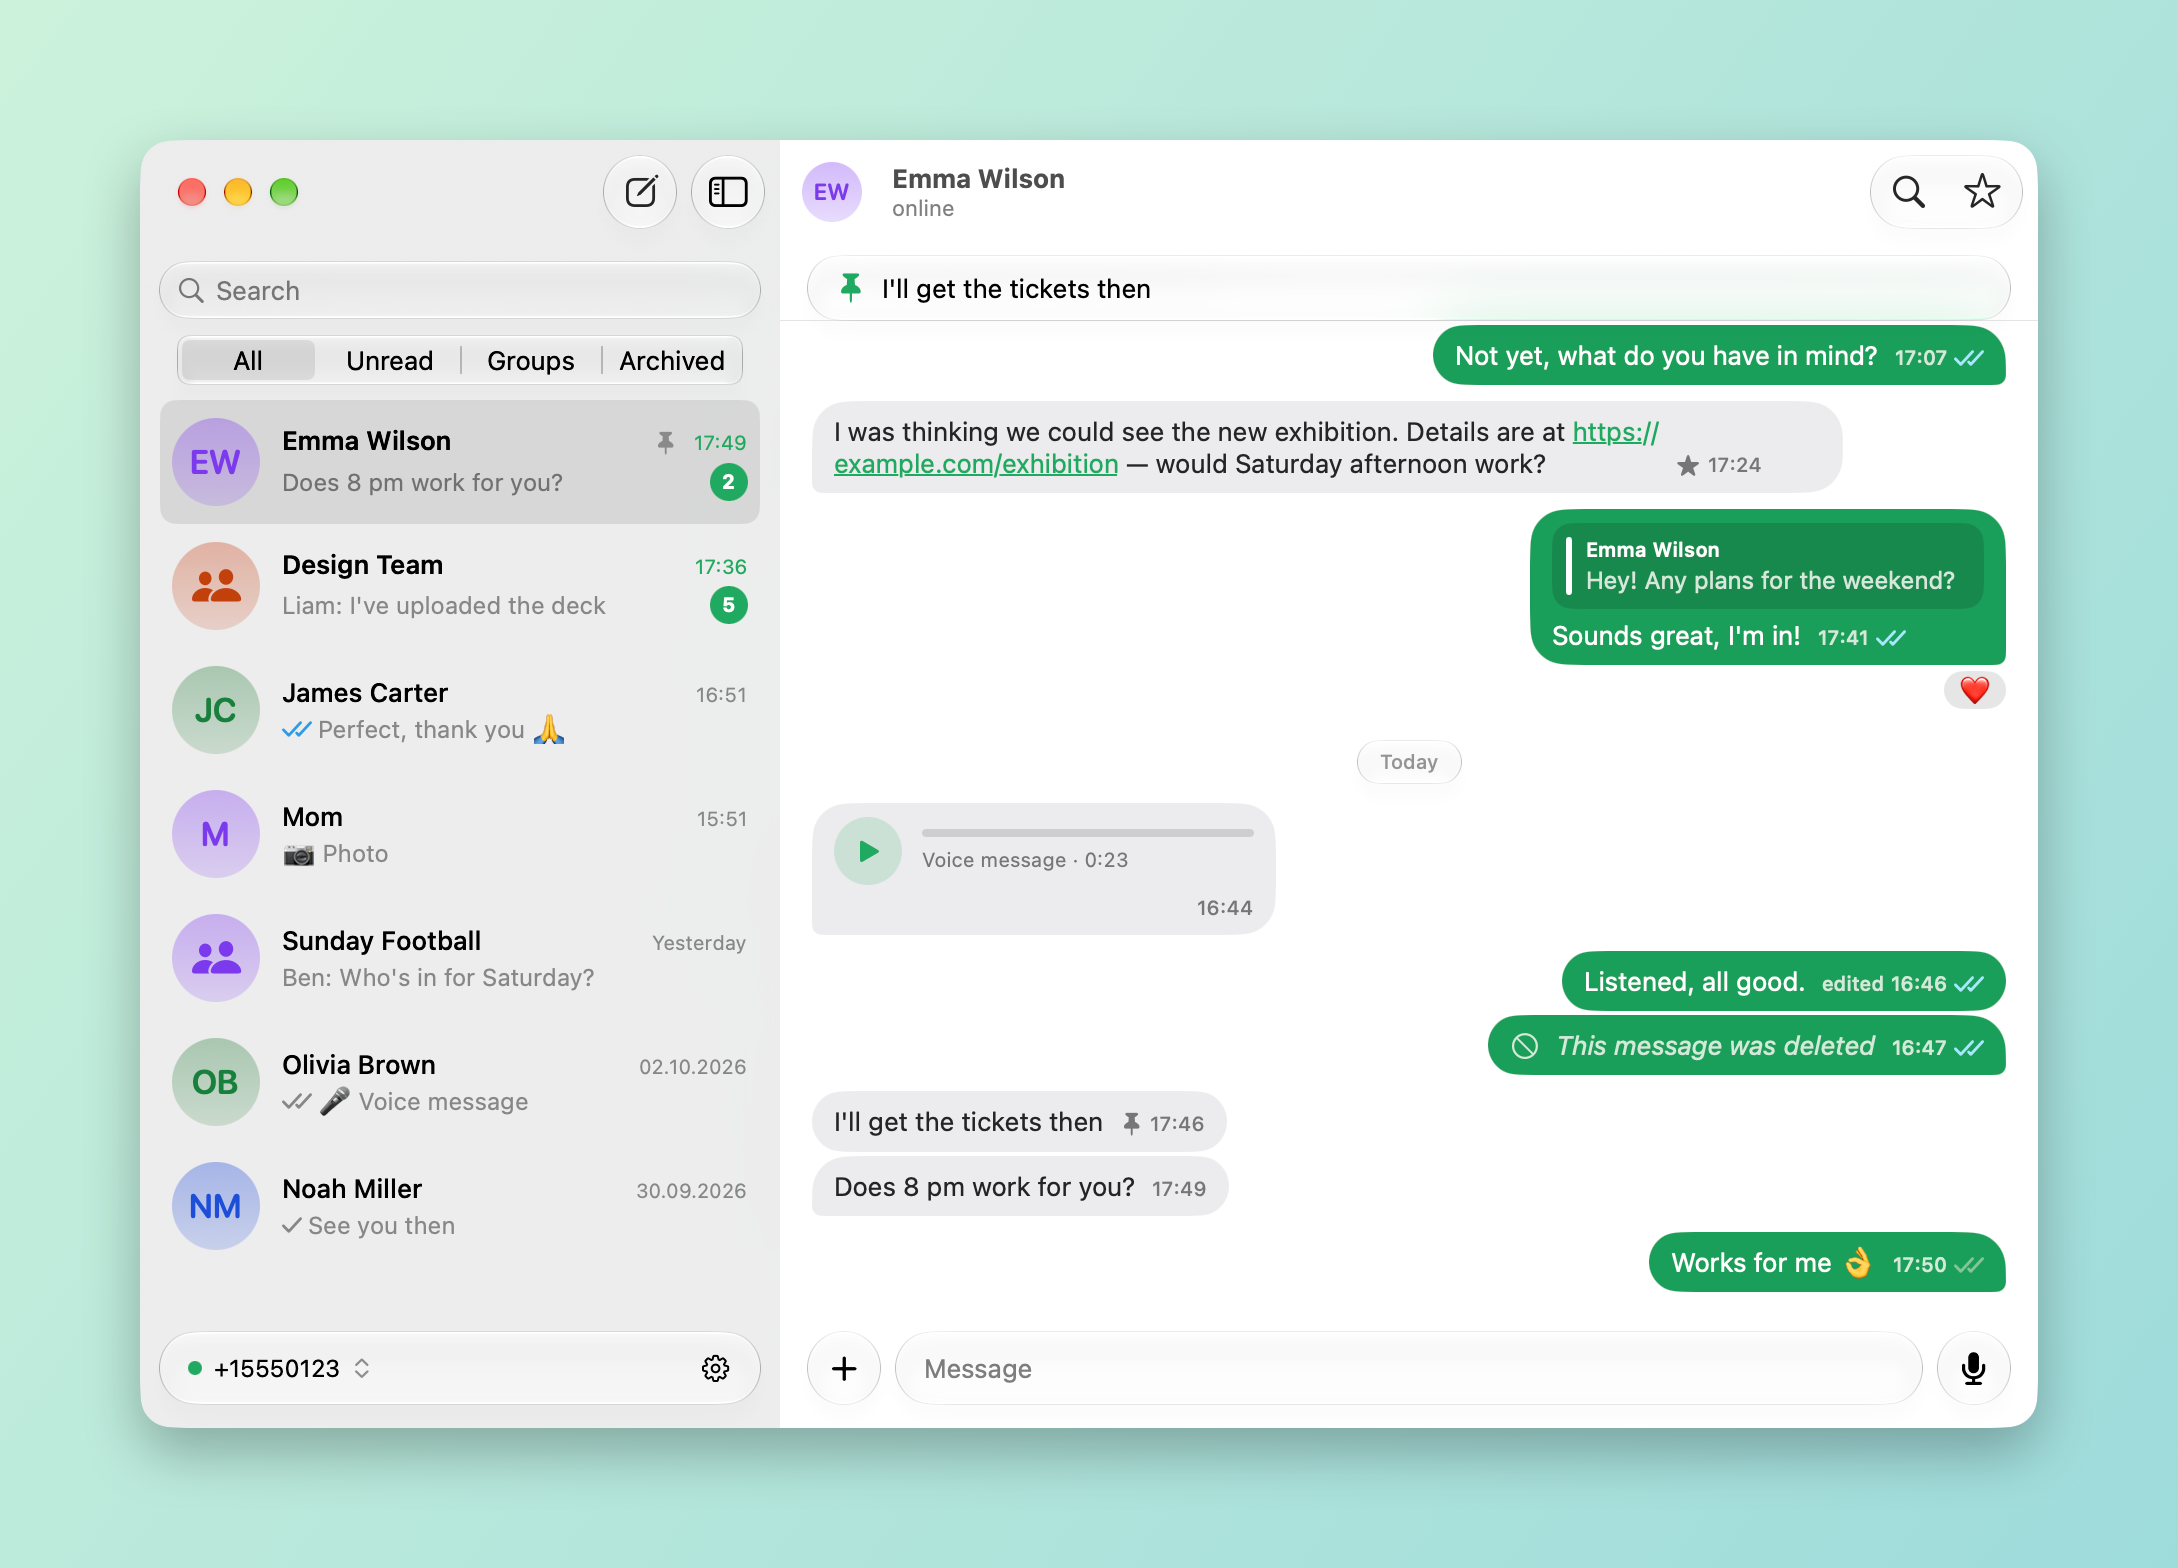
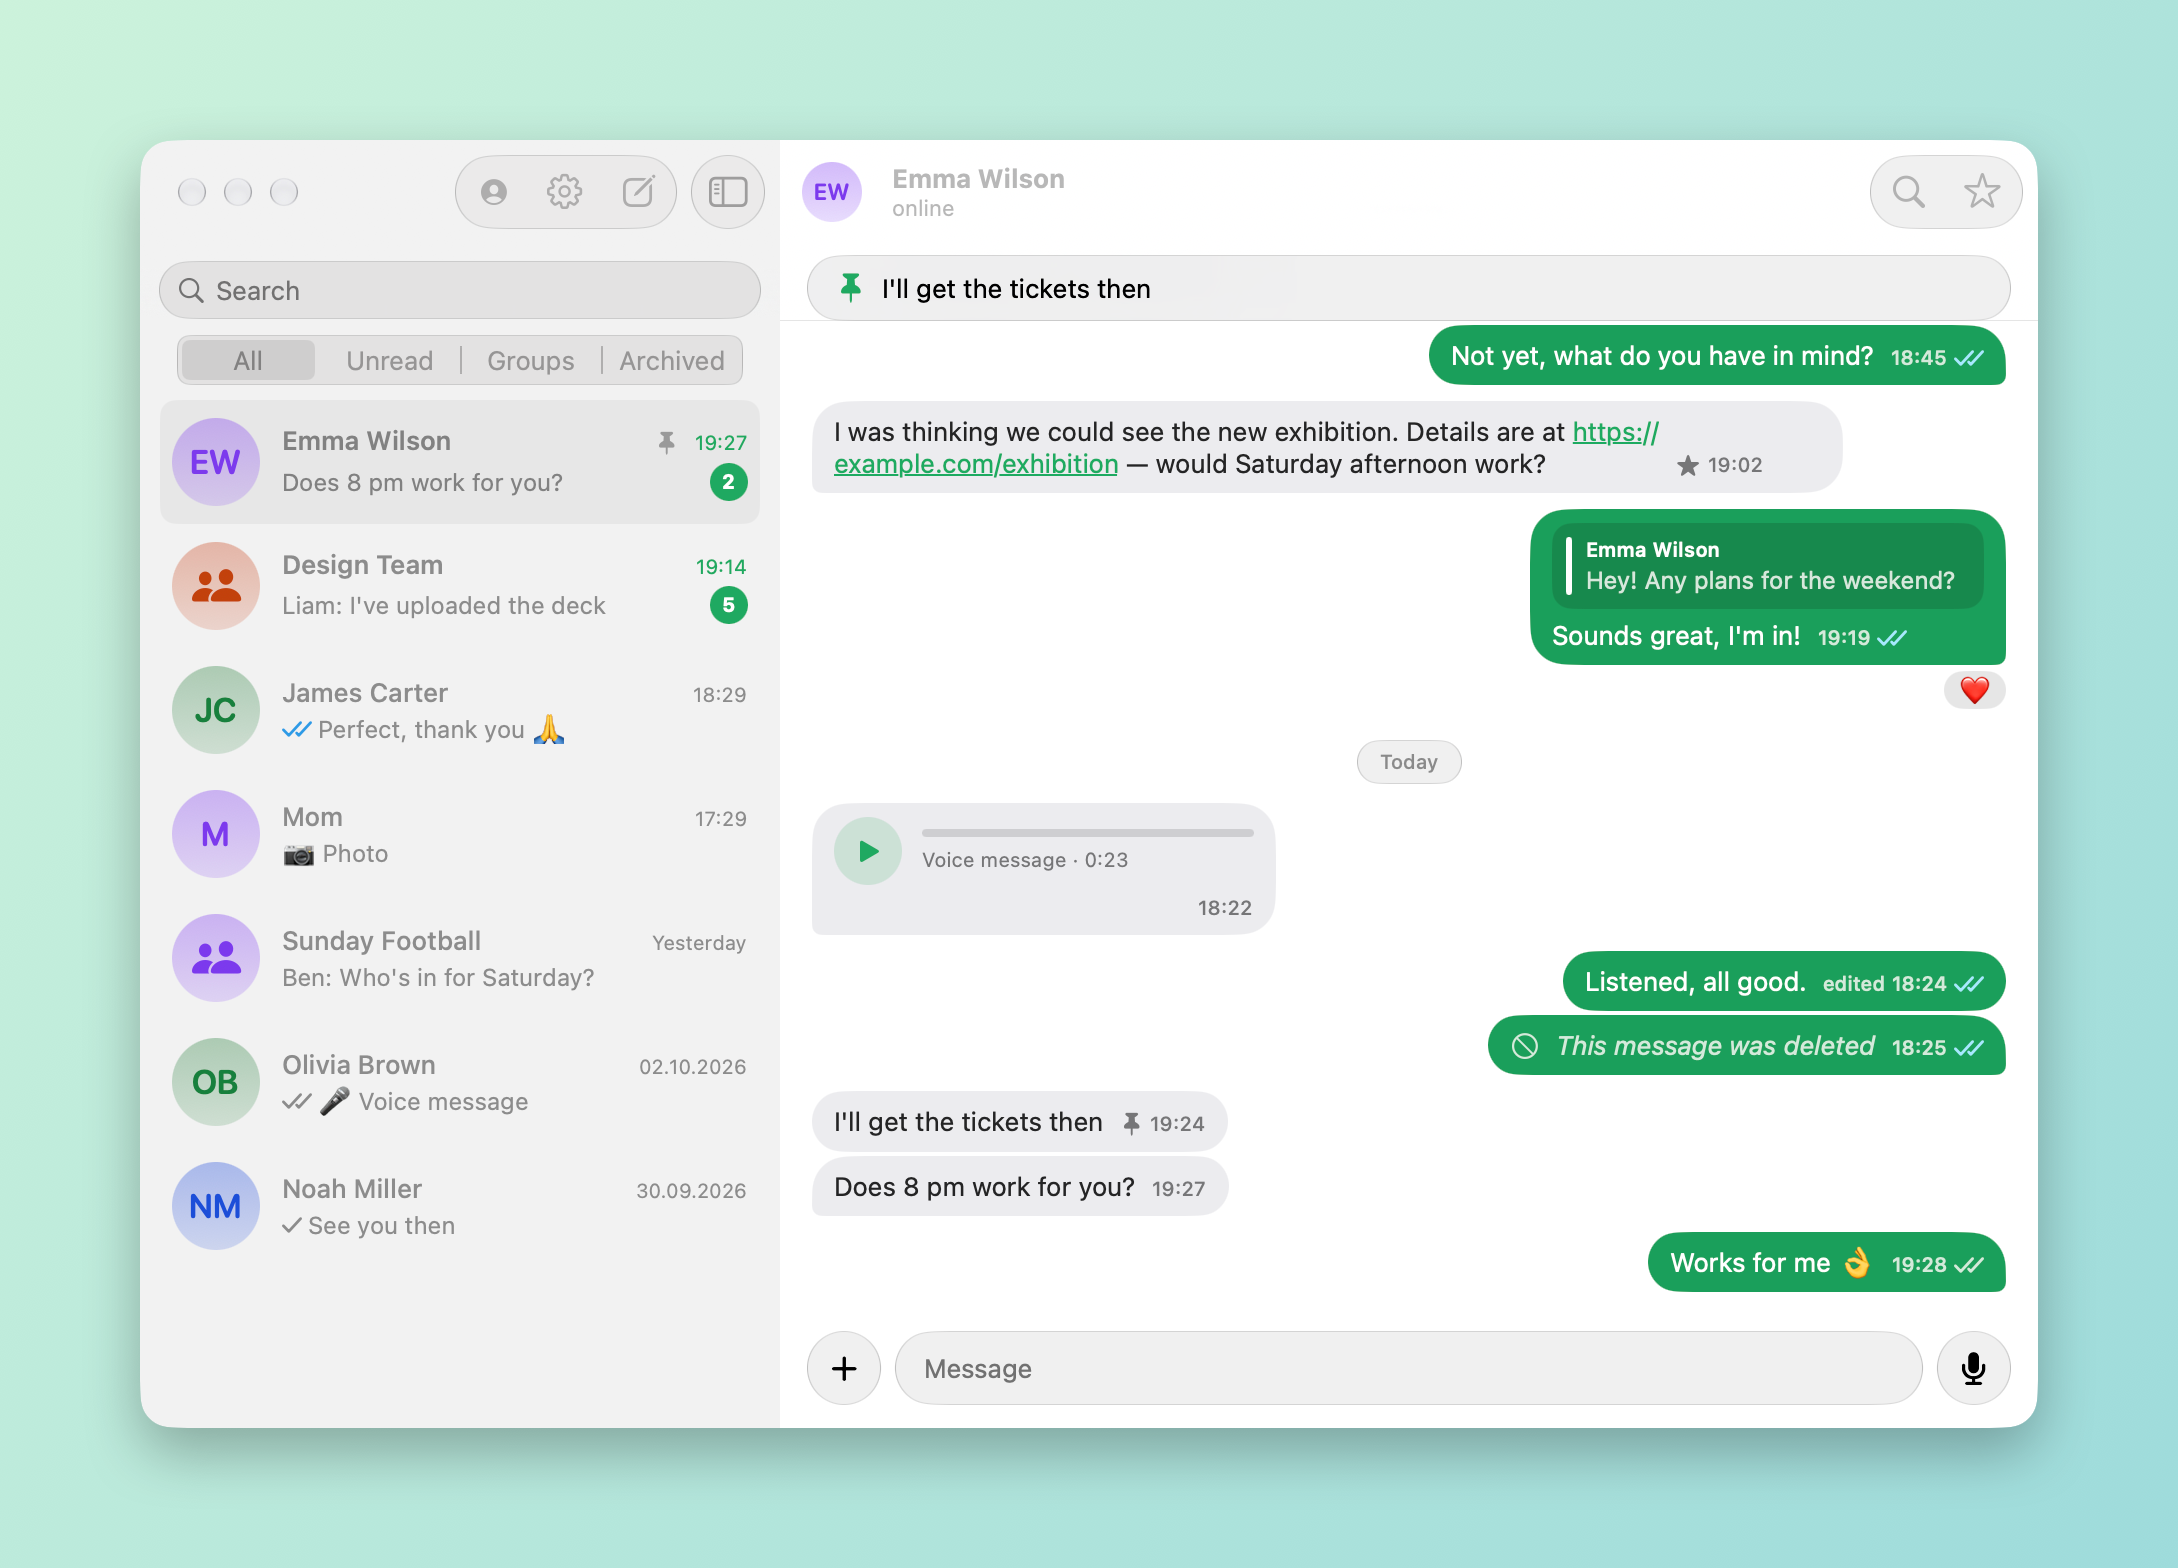
Move the account switcher and Settings into the sidebar toolbar
Accounts can be given a name and an icon in Settings; the toolbar shows
just the icon. The bar at the bottom of the sidebar is gone.

diff --git a/app/Sources/WhatsAppZen/MainView.swift b/app/Sources/WhatsAppZen/MainView.swift
@@ -117,26 +117,16 @@ struct Sidebar: View {
             }
         }
         .safeAreaInset(edge: .bottom, spacing: 0) {
-            HStack(spacing: 8) {
-                AccountMenu()
-                Spacer(minLength: 4)
-                Button {
-                    model.showingSettings = true
-                } label: {
-                    Image(systemName: "gearshape").contentShape(Rectangle())
-                }
-                .buttonStyle(.plain)
-                .help(L("Settings"))
+            // Only worth the space when something is wrong.
+            if store.state != "connected" {
+                ConnectionDot(connected: false).padding(.vertical, 8)
             }
-            .padding(.horizontal, 14)
-            .frame(height: ComposerBar.height)
-            .glassEffect(.regular, in: Capsule())
-            .padding(.horizontal, 10)
-            .padding(.top, 4)
-            .padding(.bottom, 12)
         }
         .toolbar {
-            ToolbarItem {
+            ToolbarItemGroup {
+                AccountMenu()
+                Button(L("Settings"), systemImage: "gearshape") { model.showingSettings = true }
+                    .help(L("Settings"))
                 Button(L("New Chat"), systemImage: "square.and.pencil") { newChat = true }
                     .help(L("New Chat"))
             }
@@ -582,24 +572,23 @@ struct AccountMenu: View {
                     model.activate(account.id)
                 } label: {
                     let unread = account.totalUnread > 0 ? "  (\(account.totalUnread))" : ""
-                    Label(account.label + unread, systemImage: account.id == store.id ? "checkmark" : "person.crop.circle")
+                    Label(account.label + unread, systemImage: account.icon)
                 }
+                .disabled(account.id == store.id)
             }
             Divider()
             Button(L("Add Account…"), systemImage: "plus") { model.addAccount() }
         } label: {
-            HStack(spacing: 6) {
-                Circle().fill(store.state == "connected" ? Theme.accent : .orange).frame(width: 7, height: 7)
-                Text(store.state == "connected" ? store.label : L("Connecting…")).font(.callout).lineLimit(1)
-                Image(systemName: "chevron.up.chevron.down").font(.caption2).foregroundStyle(.secondary)
-            }
-            .contentShape(Rectangle())
+            // Just the account's icon; a dot marks a connection in progress.
+            Image(systemName: store.icon)
+                .overlay(alignment: .bottomTrailing) {
+                    if store.state != "connected" {
+                        Circle().fill(.orange).frame(width: 6, height: 6).offset(x: 2, y: 2)
+                    }
+                }
         }
-        .menuStyle(.button)
-        .buttonStyle(.plain)
         .menuIndicator(.hidden)
-        .fixedSize()
-        .help(L("Switch account"))
+        .help(store.label)
     }
 }
 

diff --git a/app/Sources/WhatsAppZen/Settings.swift b/app/Sources/WhatsAppZen/Settings.swift
@@ -151,12 +151,7 @@ private struct AccountSettings: View {
             Section {
                 ForEach(model.accounts) { account in
                     HStack(spacing: 10) {
-                        AvatarView(jid: account.me, name: account.label, size: 30)
-                        VStack(alignment: .leading, spacing: 1) {
-                            Text(account.label)
-                            Text(account.me.isEmpty ? L("Not paired") : (account.state == "connected" ? L("Connected") : L("Connecting…")))
-                                .font(.caption).foregroundStyle(.secondary)
-                        }
+                        AccountRowEditor(account: account)
                         Spacer()
                         if account.id == model.activeID {
                             Image(systemName: "checkmark").foregroundStyle(Theme.accent)
@@ -182,6 +177,33 @@ private struct AccountSettings: View {
             }
         } message: {
             Text(L("The chat history on this Mac will be deleted. Messages on your phone are not affected."))
+        }
+    }
+}
+
+/// Icon and name of one account, editable in place.
+private struct AccountRowEditor: View {
+    @ObservedObject var account: AppStore
+
+    var body: some View {
+        Menu {
+            ForEach(AppStore.icons, id: \.self) { icon in
+                Button { account.icon = icon } label: { Image(systemName: icon) }
+            }
+        } label: {
+            Image(systemName: account.icon).font(.title3).foregroundStyle(Theme.accent).frame(width: 26)
+        }
+        .menuStyle(.borderlessButton)
+        .menuIndicator(.hidden)
+        .fixedSize()
+        .help(L("Icon"))
+        VStack(alignment: .leading, spacing: 1) {
+            TextField(L("Name"), text: $account.nickname, prompt: Text(account.phone.isEmpty ? L("New account") : account.phone))
+                .textFieldStyle(.plain)
+                .labelsHidden()
+            Text(account.me.isEmpty ? L("Not paired")
+                : account.phone + " · " + (account.state == "connected" ? L("Connected") : L("Connecting…")))
+                .font(.caption).foregroundStyle(.secondary)
         }
     }
 }

diff --git a/app/Sources/WhatsAppZen/Store.swift b/app/Sources/WhatsAppZen/Store.swift
@@ -31,7 +31,11 @@ final class AppStore: ObservableObject, Identifiable {
     /// The account this store belongs to; also its folder name in the core.
     let id: String
 
-    init(id: String) { self.id = id }
+    init(id: String) {
+        self.id = id
+        nickname = UserDefaults.standard.string(forKey: "account.\(id).name") ?? ""
+        icon = UserDefaults.standard.string(forKey: "account.\(id).icon") ?? Self.icons[0]
+    }
 
     static let dataDir: URL = {
         let base = FileManager.default.urls(for: .applicationSupportDirectory, in: .userDomainMask)[0]
@@ -82,10 +86,30 @@ final class AppStore: ObservableObject, Identifiable {
         NSApp.isActive && AppModel.shared.windowVisible && AppModel.shared.active === self
     }
 
-    /// How the account is named in menus: its phone number once paired.
-    var label: String {
-        guard let user = me.split(separator: "@").first, !user.isEmpty else { return L("New account") }
+    /// A name the user gave this account ("Personal", "Work"); empty for none.
+    @Published var nickname = "" {
+        didSet { UserDefaults.standard.set(nickname, forKey: "account.\(id).name") }
+    }
+    /// The SF Symbol that stands for this account in the toolbar.
+    @Published var icon = AppStore.icons[0] {
+        didSet { UserDefaults.standard.set(icon, forKey: "account.\(id).icon") }
+    }
+
+    static let icons = [
+        "person.crop.circle.fill", "briefcase.fill", "house.fill", "building.2.fill", "heart.fill", "star.fill",
+        "graduationcap.fill", "cart.fill", "gamecontroller.fill", "airplane", "wrench.and.screwdriver.fill", "leaf.fill",
+    ]
+
+    /// The account's phone number once paired.
+    var phone: String {
+        guard let user = me.split(separator: "@").first, !user.isEmpty else { return "" }
         return "+\(user)"
+    }
+
+    /// How the account is named in menus: its nickname, else its number.
+    var label: String {
+        if !nickname.isEmpty { return nickname }
+        return phone.isEmpty ? L("New account") : phone
     }
 
     func start() {
